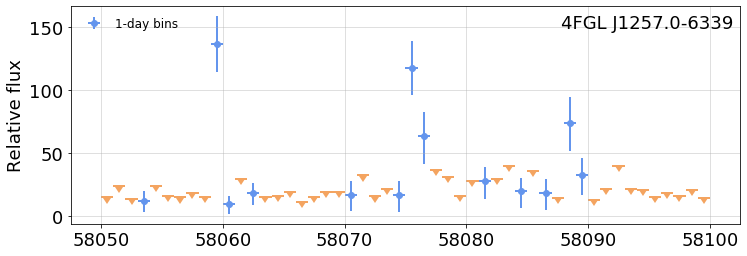
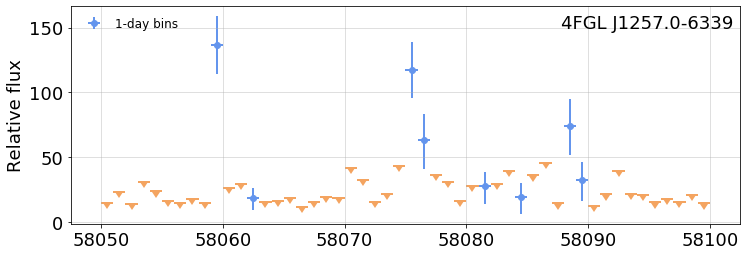
update P88Y3250

diff --git a/docs/P88Y3250.html b/docs/P88Y3250.html
@@ -120,12 +120,12 @@ nb_path: "nbs/P88Y3250.ipynb"
 
 
 <div class="output_markdown rendered_html output_subarea ">
-<h2 id="Variability-analysis-of-4FGL-J1257.0-6339">Variability analysis of 4FGL J1257.0-6339<a class="anchor-link" href="#Variability-analysis-of-4FGL-J1257.0-6339"> </a></h2><p>2021-05-11 05:11</p>
+<h2 id="Variability-analysis-of-4FGL-J1257.0-6339">Variability analysis of 4FGL J1257.0-6339<a class="anchor-link" href="#Variability-analysis-of-4FGL-J1257.0-6339"> </a></h2><p>2021-05-12 05:49</p>
 <p>This source, ~$0.5^\circ$ distant from PSR B1259-63, has a nickname P88Y3250. 
 I look at it because it was flagged as variable, index=48.3, so may affect B1259.</p>
 <p>It is unassociated, with a pointlike TS=287, and flux uncertainty of 0.7%. Its 12-year SED is:</p>
-<figure style="margin-left: 5%" title="Figure 1">  <a href="images/P88Y3250_fig_01.png" title="images/P88Y3250_fig_01.png">    <img src="images/P88Y3250_fig_01.png" alt="Figure 1 at images/P88Y3250_fig_01.png" width=250>   </a> </figure><p><details  class="nbdoc-description" >  <summary> Output: load data, add weights, form time bins, fit </summary>  <div style="margin-left: 5%"><pre>SourceData: photons and exposure for 4FGL J1257.0-6339: Restoring from cache with key "4FGL J1257.0-6339_data"<br>WtLike: Source 4FGL J1257.0-6339 with:<br>  data:     1,329,315  photons   from 2008-08-04 to 2021-05-06<br>    exposure: 3,347,950 intervals  from 2008-08-04 to 2021-05-06<br>    est. rates from weights: source 7.57e-09/s, background 3.71e-06/s, S/N ratio 0.00<br>CellData: Bin photon data into 665 1-week bins from 54683.0 to 59338.0<br>LightCurve: select 658 cells for fitting with e&gt;0.5 & n&gt;2<br></pre></div> </details></p>
-<p><details  class="nbdoc-description" >  <summary> BB partition output </summary>  <div style="margin-left: 5%"><pre>LightCurve: select 658 cells for fitting with e&gt;0.5 & n&gt;2<br>Partitioned 658 cells into 9 blocks, using LikelihoodFitness <br>LightCurve: Loaded 9 / 9 cells for fitting<br></pre></div> </details></p>
+<figure style="margin-left: 5%" title="Figure 1">  <a href="images/P88Y3250_fig_01.png" title="images/P88Y3250_fig_01.png">    <img src="images/P88Y3250_fig_01.png" alt="Figure 1 at images/P88Y3250_fig_01.png" width=250>   </a> </figure><p><details  class="nbdoc-description" >  <summary> Output: load data, add weights, form time bins, fit </summary>  <div style="margin-left: 5%"><pre>SourceData: photons and exposure for 4FGL J1257.0-6339: Restoring from cache with key "4FGL J1257.0-6339_data"<br>WtLike: Source 4FGL J1257.0-6339 with:<br>  data:     1,329,315 photons from 2008-08-04 to 2021-05-06<br>   exposure: 3,347,950 intervals,  average rate 3578 cm^2 for 100.0 Ms<br>     rates:  source 7.57e-09/s, background 3.71e-06/s, S/N ratio 0.00<br>CellData: Bin photon data into 665 1-week bins from 54683.0 to 59338.0<br>LightCurve: select 658 cells for fitting with e&gt;10 & n&gt;2<br></pre></div> </details></p>
+<p><details  class="nbdoc-description" >  <summary> BB partition output </summary>  <div style="margin-left: 5%"><pre>LightCurve: select 658 cells for fitting with e&gt;10 & n&gt;2<br>Partitioned 658 cells into 9 blocks, using LikelihoodFitness <br>LightCurve: Loaded 9 / 9 cells for fitting<br></pre></div> </details></p>
 <p>Here is the light curve, measured in weekly intervals.</p>
 <figure style="margin-left: 5%" title="Figure 2">  <a href="images/P88Y3250_fig_02.png" title="images/P88Y3250_fig_02.png">    <img src="images/P88Y3250_fig_02.png" alt="Figure 2 at images/P88Y3250_fig_02.png" width=600>   </a> </figure><p>Note that most of the weeks are limits, except for a few quite significant ones.
 The blue line is the result of the Bayesian block (BB) analysis, which found several blocks.</p>
@@ -146,6 +146,25 @@ This shows the energy flux for 3-day intervals, and appears to be consistent wit
 </div>
     {% endraw %}
 
+<div class="cell border-box-sizing text_cell rendered"><div class="inner_cell">
+<div class="text_cell_render border-box-sizing rendered_html">
+<h1 id="Implications-for-Catalog-analysis">Implications for Catalog analysis<a class="anchor-link" href="#Implications-for-Catalog-analysis"> </a></h1><p>This could be done with <strong>all</strong> 4FGL sources with a relatively small amount of effort.</p>
+<p>Computing time to generate this:</p>
+<ul>
+<li>15' using pointlike to generate a table of weights for energy- and angle- regions</li>
+<li>10' to load the the compressed FT1/FT2 table for the 11 2/3 years.</li>
+</ul>
+<p>What would be needed:</p>
+<ul>
+<li>a systmatic effort to produce such tables, using the official catalog model with fermipy for all sources.</li>
+<li>Compare all lightcurves for nearby sources to check correlations: for such pairs, or groups, identify which is the culpit, an modify the background assumption for the neighbors. </li>
+</ul>
+<p>Potential result: Detailed light curves on any time scale for all sources.</p>
+<p><strong>Can I enlist volunteers?</strong></p>
+
+</div>
+</div>
+</div>
 </div>
  
 
